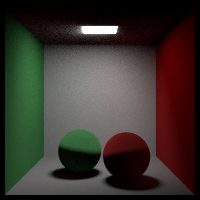
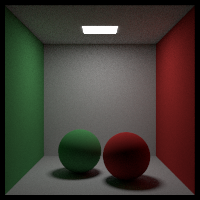
fixed rendering of diffuse materials

diff --git a/raypy/materials/diffuse.py b/raypy/materials/diffuse.py
@@ -8,8 +8,8 @@ from raypy.ray import get_ray_color, Ray
 
 
 class Diffuse(Material):
-    def __init__(self, diff_color, diffuse_rays=20, ambient_weight=0.5):
-        super().__init__()
+  def __init__(self, diff_color, diffuse_rays = 20, ambient_weight = 0.5, **kwargs):
+        super().__init__(**kwargs)
 
         if isinstance(diff_color, vec3):
             self.diff_texture = SolidColor(diff_color)
@@ -20,23 +20,23 @@ class Diffuse(Material):
         self.max_diffuse_reflections = 2
         self.ambient_weight = ambient_weight
 
-    def get_color(self, scene, ray, hit):
-        hit.point = (ray.origin + ray.dir * hit.distance)
-        diff_color = self.diff_texture.get_color(hit)
+  def get_color(self, scene, ray, hit):
+      hit.point = (ray.origin + ray.dir * hit.distance) # intersection point
+      diff_color = self.diff_texture.get_color(hit)
 
-        N = hit.material.get_normal(hit)
+      N = hit.material.get_normal(hit)  
 
-        color = rgb(.0, .0, .0)
+      color = rgb(0.,0.,0.)
 
-        if ray.diffuse_reflections < 1:
+      if ray.diffuse_reflections < 1:
 
           nudged = hit.point + N * .000001
           N_repeated = N.repeat(self.diffuse_rays)
 
           if ray.n.shape() == 1:
-              N_repeated = ray.n
+              n_repeated = ray.n
           else:
-              N_repeated = ray.n.repeat(self.diffuse_rays)
+              n_repeated = ray.n.repeat(self.diffuse_rays)
 
           nudged_repeated = nudged.repeat(self.diffuse_rays)
 
@@ -44,8 +44,7 @@ class Diffuse(Material):
 
           pdf1 = CosinePdf(size, N_repeated)
           pdf2 = SphericalCapsPdf(size, nudged_repeated, scene.importance_sampled_list)
-
-          s_pdf = s_pdf = None
+          s_pdf = None
           if scene.importance_sampled_list == []:
               s_pdf = CosinePdf(size, N_repeated)
           else:
@@ -54,21 +53,22 @@ class Diffuse(Material):
           ray_dir = s_pdf.generate()
           PDF_val = s_pdf.value(ray_dir)
 
-          s_direction = np.clip(ray_dir.dot(N_repeated),0.,1.) / np.pi
-
+          s_direction = np.clip(ray_dir.dot(N_repeated),0.,1.) / (np.pi)
+          
           color_direction = get_ray_color(
-              Ray(nudged_repeated, ray_dir,
-                  ray.depth + 1, N_repeated,
-                  ray.reflections + 1, ray.transmissions,
-                  ray.diffuse_reflections + 1),
-              scene)
-
-          color_temp = color_direction * s_direction / PDF_val    # BRDF of diffuse material
-          color += diff_color * color_temp.reshape(N.shape()[0], self.diffuse_rays).mean(axis=1)
+            Ray(nudged_repeated, ray_dir, 
+              ray.depth + 1, 
+              n_repeated, 
+              ray.reflections + 1, 
+              ray.transmissions, 
+              ray.diffuse_reflections + 1), 
+            scene)
+          color_temp = color_direction * s_direction  / PDF_val  #  diff_color/np.pi = Lambertian BRDF
+          color += diff_color * color_temp.reshape(N.shape()[0], self.diffuse_rays).mean(axis = 1)
 
           return color
 
-        elif ray.diffuse_reflections < self.max_diffuse_reflections:
+      elif ray.diffuse_reflections < self.max_diffuse_reflections:
           """
           when ray.diffuse_reflections > 1 we just call one diffuse ray to solve rendering equation (otherwise is too slow)
           """
@@ -80,18 +80,18 @@ class Diffuse(Material):
           pdf2 = SphericalCapsPdf(size, nudged, scene.importance_sampled_list)
 
           if scene.importance_sampled_list == []:
-                s_pdf = CosinePdf(size, N)
+              s_pdf = CosinePdf(size, N)
           else:
               s_pdf = MixedPdf(size, pdf1, pdf2, self.ambient_weight)
 
           ray_dir = s_pdf.generate()
           PDF_val = s_pdf.value(ray_dir)
 
-          NdotL = np.clip(N.dot(ray_dir),0.,1.)
+          s_direction = np.clip(N.dot(ray_dir),0.,1.)
           color_temp = diff_color * get_ray_color(Ray(nudged, ray_dir, ray.depth + 1, ray.n, ray.reflections + 1, ray.transmissions, ray.diffuse_reflections + 1), scene)
-          color = color_temp * NdotL  / PDF_val / (np.pi) 
+          color = color_temp * s_direction  / PDF_val / (np.pi) 
 
           return color
 
-        else:
+      else:
           return color
